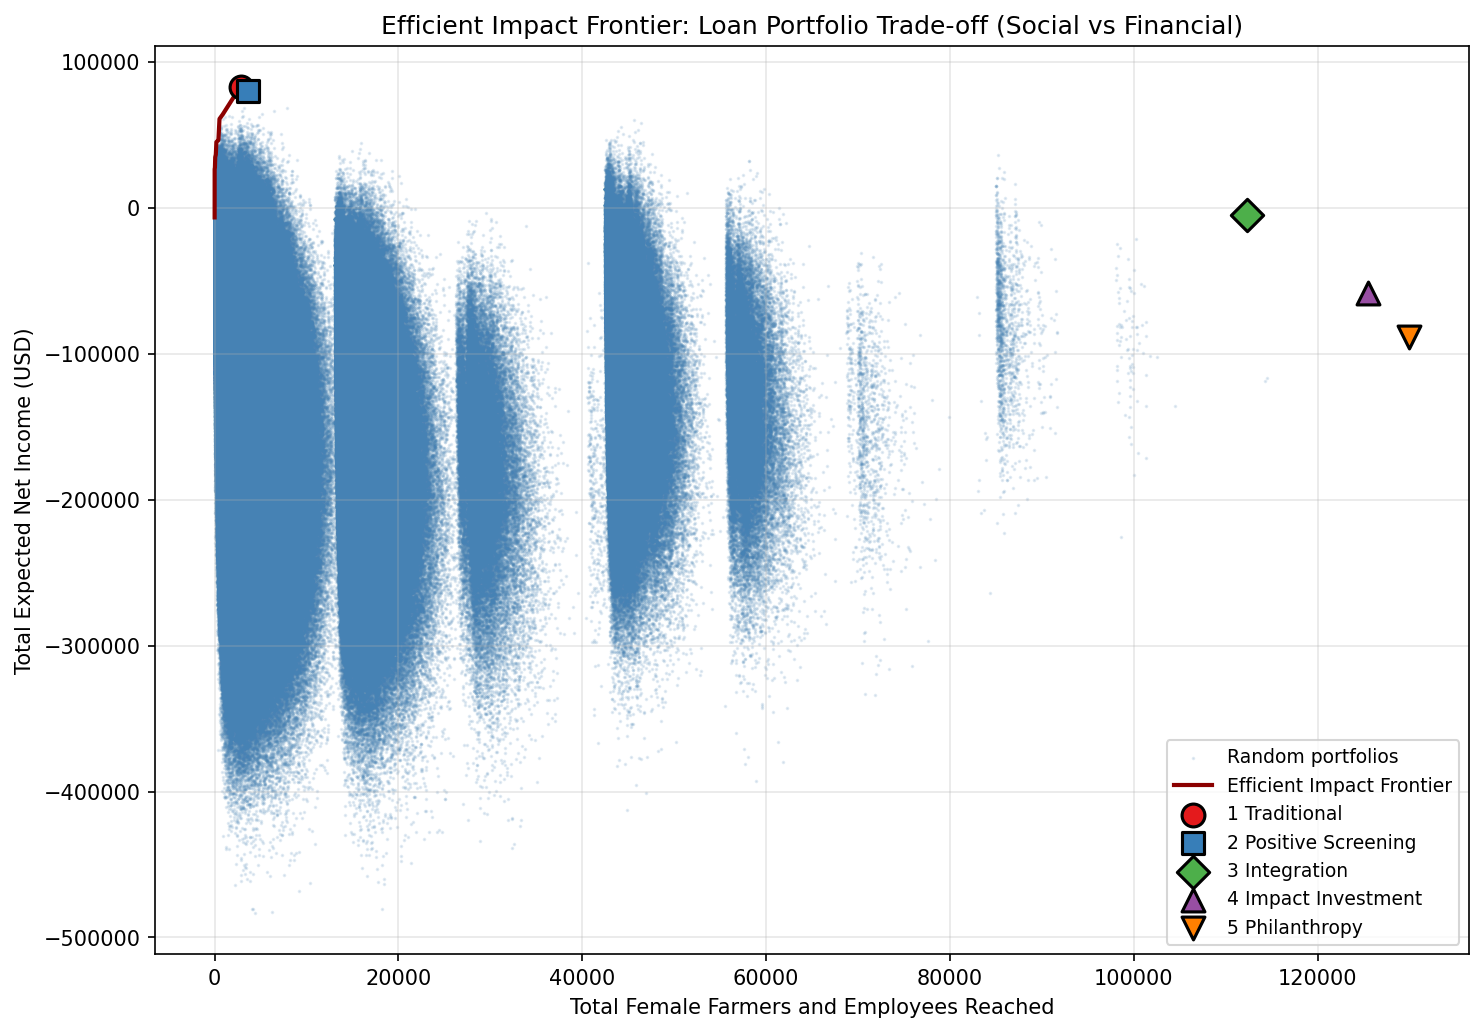
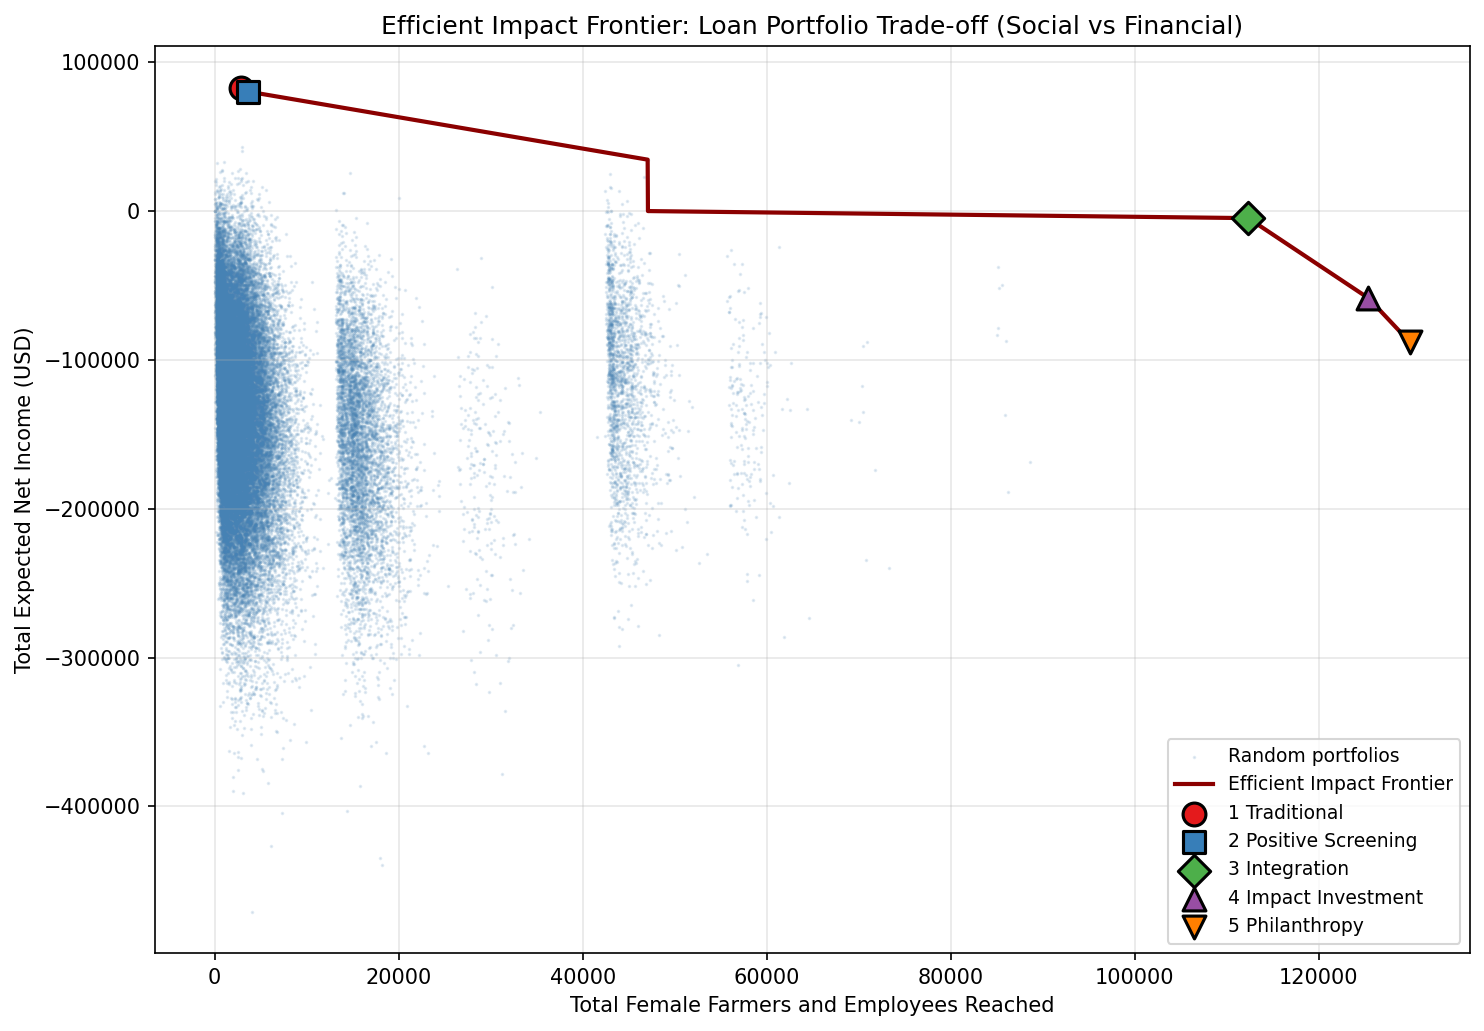
Efficent Impact Frontier now maximises BOTH Incompe and Impact (pior it was only income)

diff --git a/main.py b/main.py
@@ -107,16 +107,20 @@ def load_exercise1_portfolios(data, amounts, incomes, female):
 
 
 def compute_frontier(incomes, female):
-    """Pareto frontier (upper envelope): max income for each female level."""
-    order = np.argsort(female)
+    """Pareto frontier: optimal trade-off from max income (top-left) to max impact (bottom-right).
+    Scans from high impact to low impact, keeping max income at each step, so the frontier
+    includes Philanthropy (max female reach) through Traditional (max income)."""
+    order = np.argsort(female)  # ascending: low to high female
     female_sorted = female[order]
     incomes_sorted = incomes[order]
 
     n = len(female_sorted)
+    # Scan from HIGH female to LOW female (right to left): keep upper envelope of income.
+    # This ensures we include max-impact portfolios (Philanthropy) on the frontier.
     max_so_far = np.empty(n)
-    max_so_far[0] = incomes_sorted[0]
-    for i in range(1, n):
-        max_so_far[i] = max(max_so_far[i - 1], incomes_sorted[i])
+    max_so_far[-1] = incomes_sorted[-1]  # start from rightmost (highest female)
+    for i in range(n - 2, -1, -1):
+        max_so_far[i] = max(max_so_far[i + 1], incomes_sorted[i])
 
     is_frontier = incomes_sorted >= max_so_far
     return female_sorted[is_frontier], incomes_sorted[is_frontier]
